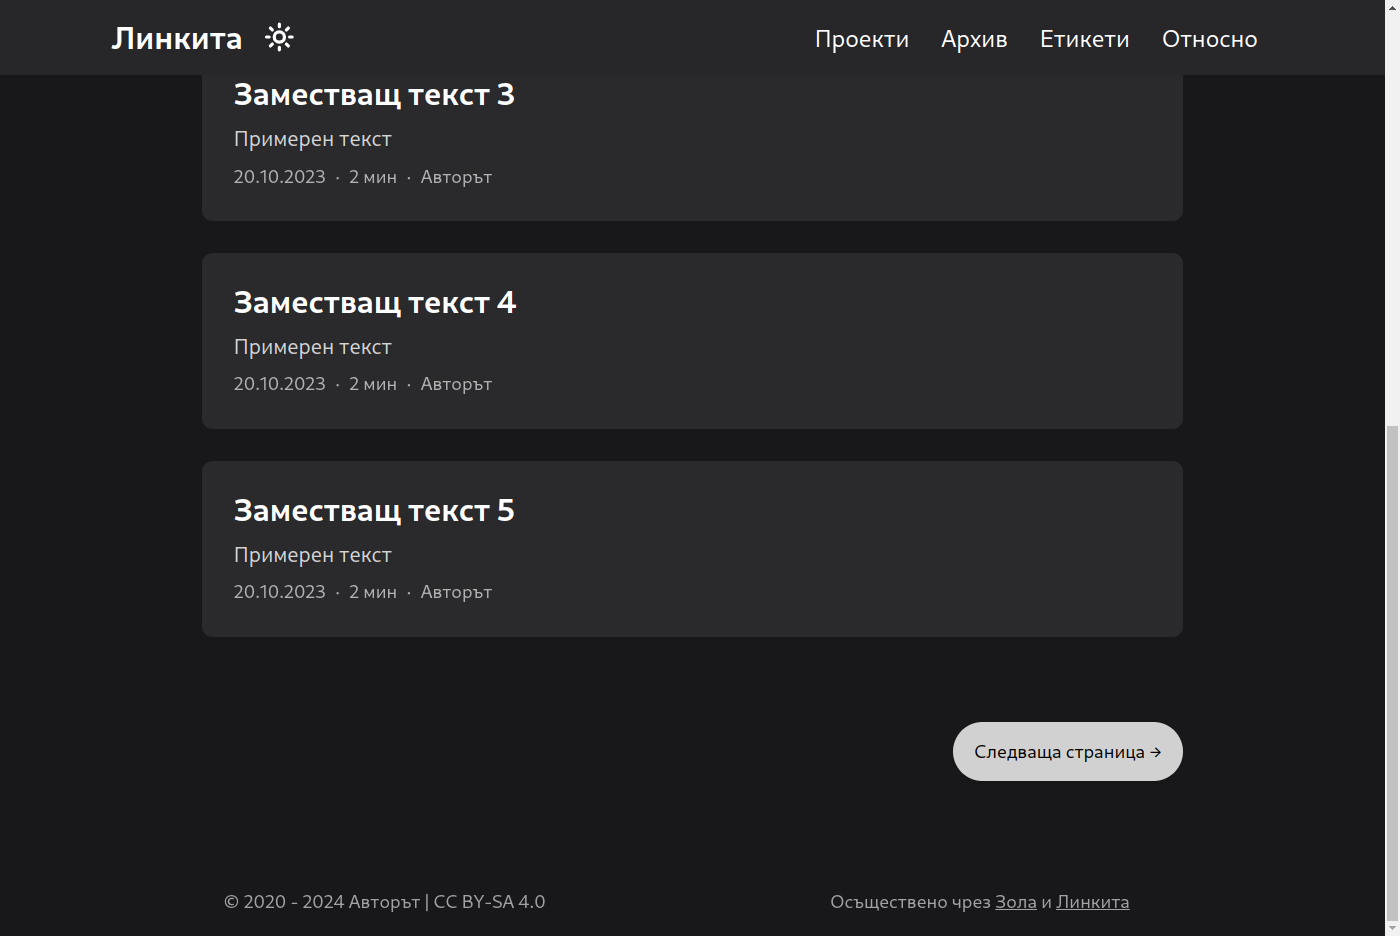
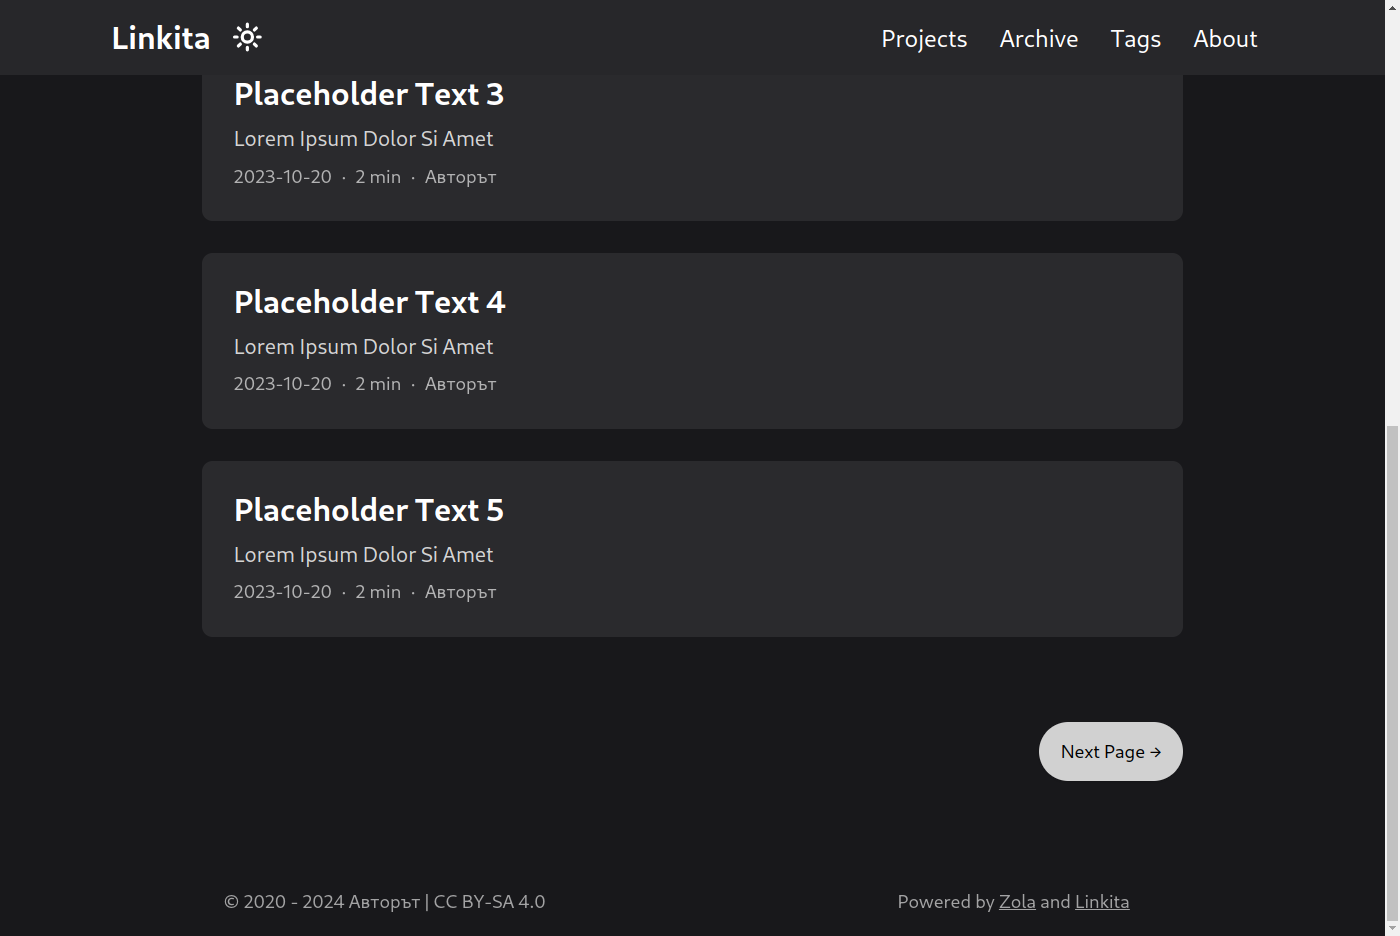
Update README

diff --git a/README.md b/README.md
@@ -2,17 +2,20 @@
 
 Linkita is a clean and elegant blog theme for Zola.
 
-This theme is based on [Kita](https://github.com/st1020/kita) with some features added.
-
+It is based on [Kita](https://github.com/st1020/kita) with some features added.
 Kita is based on Hugo theme [hugo-paper](https://github.com/nanxiaobei/hugo-paper) with some features added.
 
-[Demo](https://salif.github.io/linkita/en/)
+## Demo
+
+- [English](https://salif.github.io/linkita/en/)
+- [Bulgarian](https://salif.github.io/linkita/)
+- [Esperanto](https://salif.github.io/linkita/eo/)
 
 ![Screenshot](https://raw.githubusercontent.com/salif/linkita/linkita/screenshot.png)
 
 ![Screenshot - Dark mode](https://raw.githubusercontent.com/salif/linkita/linkita/screenshot.dark.png)
 
-## Features
+## Kita features
 
 - Easy to use and modify
 - No preset limits (This theme does not limit your content directory structure, taxonomy names, etc. It's applicable to all zola sites.)
@@ -29,6 +32,14 @@ Kita is based on Hugo theme [hugo-paper](https://github.com/nanxiaobei/hugo-pape
 - Comments using [Giscus](https://giscus.app/)
 - Mathematical notations using [KaTeX](https://katex.org/)
 - Diagrams and charts using [Mermaid](https://mermaid.js.org/)
+
+## Linkita features
+
+### UI localization
+
+- English
+- Bulgarian
+- Esperanto
 
 ## Installation
 
